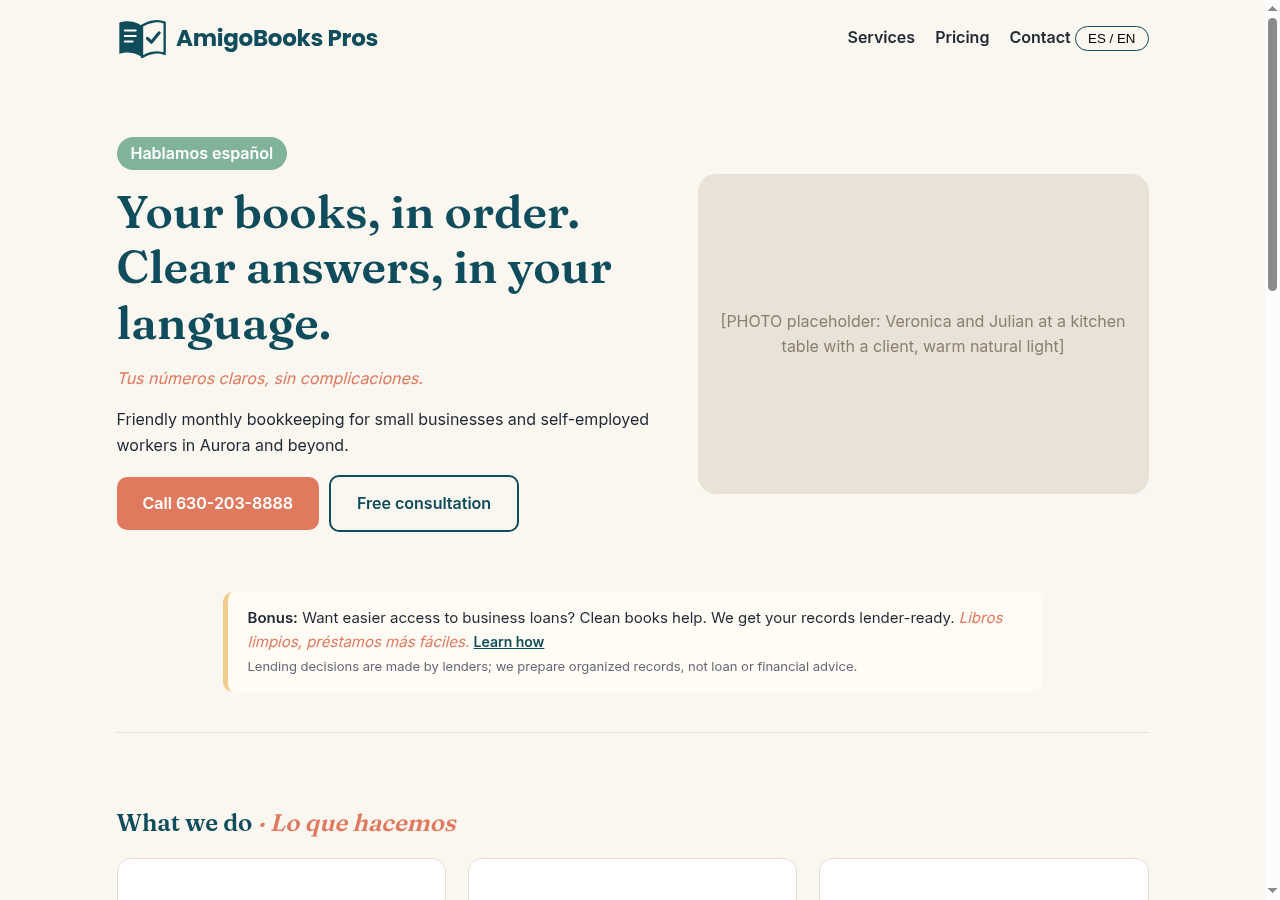
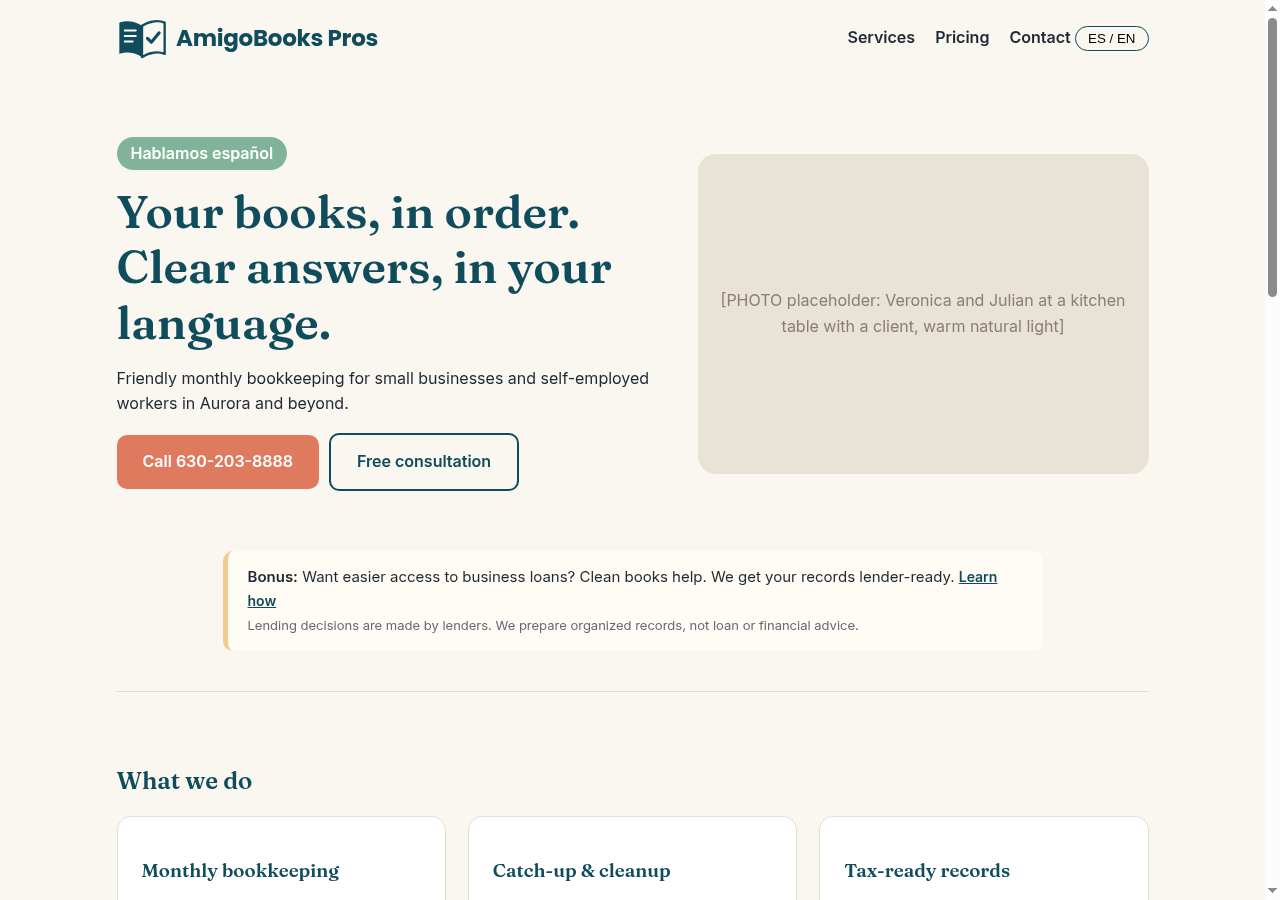
Single-language EN/ES toggle, full Spanish translations

diff --git a/index.html b/index.html
@@ -27,42 +27,43 @@ section{padding:56px 0;border-top:1px solid var(--line)}
 </style></head><body>
 <div class="wrap">
 <header><a class="logo" href="#" aria-label="AmigoBooks Pros"><svg viewBox="0 0 64 52" width="50" aria-hidden="true"><path d="M32 10 C22 3 10 3 3 6 V46 C10 43 22 43 32 50Z" fill="#0F4C5C"/><path d="M32 10 C42 3 54 3 61 6 V46 C54 43 42 43 32 50Z" fill="none" stroke="#0F4C5C" stroke-width="3" stroke-linejoin="round"/><path d="M10 16h14M10 23h14M10 30h10" stroke="#fff" stroke-width="2.6" stroke-linecap="round"/><path d="M39 26l5 5 10-12" stroke="#0F4C5C" stroke-width="4" fill="none" stroke-linecap="round" stroke-linejoin="round"/></svg><span>AmigoBooks Pros</span></a>
-<nav><a href="#services" data-en="Services" data-es="Servicios">Services</a><a href="#pricing" data-en="Pricing" data-es="Precios">Pricing</a><a href="#contact" data-en="Contact" data-es="Contacto">Contact</a> <button class="tog" onclick="t()">ES / EN</button></nav></header>
+<nav><a href="#services" data-en="Services" data-es="Servicios">Services</a><a href="#pricing" data-en="Pricing" data-es="Precios">Pricing</a><a href="#contact" data-en="Contact" data-es="Contacto">Contact</a> <button class="tog" onclick="t()" aria-label="Español / English">ES / EN</button></nav></header>
 
 <div class="hero"><div><span class="badge">Hablamos español</span>
 <h1 data-en="Your books, in order. Clear answers, in your language." data-es="Tus libros en orden. Respuestas claras, en tu idioma.">Your books, in order. Clear answers, in your language.</h1>
-<p class="es">Tus números claros, sin complicaciones.</p>
-<p data-en="Friendly monthly bookkeeping for small businesses and self-employed workers in Aurora and beyond." data-es="Contabilidad mensual amigable para pequeños negocios y trabajadores independientes en Aurora y más allá.">Friendly monthly bookkeeping for small businesses and self-employed workers in Aurora and beyond.</p>
-<a class="btn" href="tel:6302038888">Call 630-203-8888</a><a class="btn o" href="#contact" data-en="Free consultation" data-es="Consulta gratis">Free consultation</a></div>
-<div class="img">[PHOTO placeholder: Veronica and Julian at a kitchen table with a client, warm natural light]</div></div>
+<p data-en="Friendly monthly bookkeeping for small businesses and self-employed workers in Aurora and beyond." data-es="Contabilidad mensual amigable para pequeños negocios y trabajadores independientes en Aurora y sus alrededores.">Friendly monthly bookkeeping for small businesses and self-employed workers in Aurora and beyond.</p>
+<a class="btn" href="tel:6302038888" data-en="Call 630-203-8888" data-es="Llama al 630-203-8888">Call 630-203-8888</a><a class="btn o" href="#contact" data-en="Free consultation" data-es="Consulta gratis">Free consultation</a></div>
+<div class="img" data-en="[PHOTO placeholder: Veronica and Julian at a kitchen table with a client, warm natural light]" data-es="[Foto pendiente: Veronica y Julian en una mesa de cocina con un cliente, luz natural cálida]">[PHOTO placeholder: Veronica and Julian at a kitchen table with a client, warm natural light]</div></div>
 
-<div class="bonus"><b>Bonus:</b> Want easier access to business loans? Clean books help. We get your records lender-ready. <span class="es">Libros limpios, préstamos más fáciles.</span> <a href="#services">Learn how</a><br><small class="disc">Lending decisions are made by lenders; we prepare organized records, not loan or financial advice.</small></div>
+<div class="bonus" data-en="&lt;b&gt;Bonus:&lt;/b&gt; Want easier access to business loans? Clean books help. We get your records lender-ready. &lt;a href=&quot;#services&quot;&gt;Learn how&lt;/a&gt;&lt;br&gt;&lt;small class=&quot;disc&quot;&gt;Lending decisions are made by lenders. We prepare organized records, not loan or financial advice.&lt;/small&gt;" data-es="&lt;b&gt;Extra:&lt;/b&gt; ¿Quieres llegar mejor preparado a tu banco? Libros limpios, mejores conversaciones con tu banco. Dejamos tus registros listos para presentarlos. &lt;a href=&quot;#services&quot;&gt;Conoce cómo&lt;/a&gt;&lt;br&gt;&lt;small class=&quot;disc&quot;&gt;Las decisiones de crédito las toman los bancos. Nosotros preparamos registros organizados, no damos asesoría financiera ni de préstamos.&lt;/small&gt;"><b>Bonus:</b> Want easier access to business loans? Clean books help. We get your records lender-ready. <a href="#services">Learn how</a><br><small class="disc">Lending decisions are made by lenders. We prepare organized records, not loan or financial advice.</small></div>
 
-<section id="services"><h2 data-en="What we do" data-es="Lo que hacemos">What we do <span class="es">· Lo que hacemos</span></h2><div class="g3">
-<div class="card"><h3>Monthly bookkeeping</h3><p>Every transaction sorted, every account reconciled, a simple report each month. <span class="es">Cada mes, claro.</span></p></div>
-<div class="card"><h3>Catch-up &amp; cleanup</h3><p>Behind on your books? We bring past months up to date, sin regaños.</p></div>
-<div class="card"><h3>Tax-ready records</h3><p>Organized year-end package to hand to your tax preparer or CPA. <span class="es">Listo para impuestos.</span></p></div></div></section>
+<section id="services"><h2 data-en="What we do" data-es="Lo que hacemos">What we do</h2><div class="g3">
+<div class="card"><h3 data-en="Monthly bookkeeping" data-es="Contabilidad mensual">Monthly bookkeeping</h3><p data-en="Every transaction sorted, every account reconciled, a simple report each month." data-es="Cada movimiento clasificado, cada cuenta conciliada y un reporte sencillo cada mes.">Every transaction sorted, every account reconciled, a simple report each month.</p></div>
+<div class="card"><h3 data-en="Catch-up &amp;amp; cleanup" data-es="Puesta al día y limpieza">Catch-up &amp; cleanup</h3><p data-en="Behind on your books? We bring past months up to date, no judgment." data-es="¿Atrasado con tus libros? Ponemos al día los meses pendientes, sin regaños.">Behind on your books? We bring past months up to date, no judgment.</p></div>
+<div class="card"><h3 data-en="Tax-ready records" data-es="Registros listos para impuestos">Tax-ready records</h3><p data-en="Organized year-end package to hand to your tax preparer or CPA." data-es="Un paquete de fin de año organizado para entregar a tu preparador de impuestos o CPA.">Organized year-end package to hand to your tax preparer or CPA.</p></div></div></section>
 
-<section><h2>How it works <span class="es">· Así de fácil</span></h2><ol class="steps">
-<li><b>Llámanos / Call us.</b> A free 20-minute chat, in English or Spanish.</li>
-<li><b>Send your statements.</b> Photos, PDFs, even a shoebox of receipts.</li>
-<li><b>Get clear numbers monthly.</b> We explain them in plain words.</li></ol></section>
+<section><h2 data-en="How it works" data-es="Así de fácil">How it works</h2><ol class="steps">
+<li data-en="&lt;b&gt;Call us.&lt;/b&gt; A free 20-minute chat, in English or Spanish." data-es="&lt;b&gt;Llámanos.&lt;/b&gt; Una charla gratis de 20 minutos, en español o inglés."><b>Call us.</b> A free 20-minute chat, in English or Spanish.</li>
+<li data-en="&lt;b&gt;Send your statements.&lt;/b&gt; Photos, PDFs, even a shoebox of receipts." data-es="&lt;b&gt;Envía tus estados de cuenta.&lt;/b&gt; Fotos, PDFs, hasta una caja llena de recibos."><b>Send your statements.</b> Photos, PDFs, even a shoebox of receipts.</li>
+<li data-en="&lt;b&gt;Get clear numbers monthly.&lt;/b&gt; We explain them in plain words." data-es="&lt;b&gt;Recibe números claros cada mes.&lt;/b&gt; Te los explicamos con palabras sencillas."><b>Get clear numbers monthly.</b> We explain them in plain words.</li></ol></section>
 
-<section id="pricing"><h2>Simple flat pricing <span class="es">· Precios claros</span></h2><div class="g3">
-<div class="card"><h3>Básico</h3><div class="price"><span class="ph">$[PRICE]</span>/mo</div><p>Self-employed, 1 to 2 accounts.</p></div>
-<div class="card"><h3>Negocio</h3><div class="price"><span class="ph">$[PRICE]</span>/mo</div><p>Small business, up to <span class="ph">[N]</span> accounts.</p></div>
-<div class="card"><h3>Al día (catch-up)</h3><div class="price"><span class="ph">$[PRICE]</span></div><p>One-time, per month brought current.</p></div></div></section>
+<section id="pricing"><h2 data-en="Simple flat pricing" data-es="Precios fijos y claros">Simple flat pricing</h2><div class="g3">
+<div class="card"><h3 data-en="Basic" data-es="Básico">Basic</h3><div class="price"><span class="ph">$[PRICE]</span><span data-en="/mo" data-es="/mes">/mo</span></div><p data-en="Self-employed, 1 to 2 accounts." data-es="Independientes, 1 a 2 cuentas.">Self-employed, 1 to 2 accounts.</p></div>
+<div class="card"><h3 data-en="Business" data-es="Negocio">Business</h3><div class="price"><span class="ph">$[PRICE]</span><span data-en="/mo" data-es="/mes">/mo</span></div><p data-en="Small business, up to &lt;span class=&quot;ph&quot;&gt;[N]&lt;/span&gt; accounts." data-es="Pequeño negocio, hasta &lt;span class=&quot;ph&quot;&gt;[N]&lt;/span&gt; cuentas.">Small business, up to <span class="ph">[N]</span> accounts.</p></div>
+<div class="card"><h3 data-en="Catch-up" data-es="Al día">Catch-up</h3><div class="price"><span class="ph">$[PRICE]</span></div><p data-en="One-time, per month brought current." data-es="Pago único, por cada mes puesto al día.">One-time, per month brought current.</p></div></div></section>
 
-<section><div class="promise"><h2>Our promise <span style="color:#F2CC8F;font-style:italic">· Nuestra promesa</span></h2>
-<div><b>Flat price, no surprises.</b><br>Price agreed in writing before we start.</div>
-<div><b>Your data stays private.</b><br>Secure, confidential, always yours.</div>
-<div><b>Pay your way.</b><br>Card, Zelle, or cash at our office <span class="ph">[confirm]</span>.</div></div></section>
+<section><div class="promise"><h2 data-en="Our promise" data-es="Nuestra promesa">Our promise</h2>
+<div data-en="&lt;b&gt;Flat price, no surprises.&lt;/b&gt;&lt;br&gt;Price agreed in writing before we start." data-es="&lt;b&gt;Precio fijo, sin sorpresas.&lt;/b&gt;&lt;br&gt;Acordamos el precio por escrito antes de empezar."><b>Flat price, no surprises.</b><br>Price agreed in writing before we start.</div>
+<div data-en="&lt;b&gt;Your data stays private.&lt;/b&gt;&lt;br&gt;Secure, confidential, always yours." data-es="&lt;b&gt;Tu información es privada.&lt;/b&gt;&lt;br&gt;Segura, confidencial y siempre tuya."><b>Your data stays private.</b><br>Secure, confidential, always yours.</div>
+<div data-en="&lt;b&gt;Pay your way.&lt;/b&gt;&lt;br&gt;Card, Zelle, or cash at our office &lt;span class=&quot;ph&quot;&gt;[confirm]&lt;/span&gt;." data-es="&lt;b&gt;Paga como prefieras.&lt;/b&gt;&lt;br&gt;Tarjeta, Zelle o efectivo en nuestra oficina &lt;span class=&quot;ph&quot;&gt;[confirmar]&lt;/span&gt;."><b>Pay your way.</b><br>Card, Zelle, or cash at our office <span class="ph">[confirm]</span>.</div></div></section>
 
-<section><h2>Familias que confían en nosotros</h2><div class="g3">
-<div class="card"><span class="ph">[TESTIMONIAL placeholder]</span></div><div class="card"><span class="ph">[TESTIMONIAL placeholder]</span></div><div class="card"><span class="ph">[TESTIMONIAL placeholder]</span></div></div></section>
+<section><h2 data-en="What our clients say" data-es="Lo que dicen nuestros clientes">What our clients say</h2><div class="g3">
+<div class="card"><span class="ph" data-en="[TESTIMONIAL placeholder]" data-es="[Testimonio pendiente]">[TESTIMONIAL placeholder]</span></div><div class="card"><span class="ph" data-en="[TESTIMONIAL placeholder]" data-es="[Testimonio pendiente]">[TESTIMONIAL placeholder]</span></div><div class="card"><span class="ph" data-en="[TESTIMONIAL placeholder]" data-es="[Testimonio pendiente]">[TESTIMONIAL placeholder]</span></div></div></section>
 
-<section id="contact"><h2>Let's talk <span class="es">· Hablemos</span></h2>
-<p><b>Phone / WhatsApp:</b> 630-203-8888<br><b>Email:</b> <span class="ph">[EMAIL]@amigobookspros.com</span><br><b>Office:</b> <span class="ph">[ADDRESS], Aurora, IL</span><br><b>Hours:</b> <span class="ph">[HOURS]</span></p></section>
-<footer>© 2026 Amigo Books Pros · amigobookspros.com<p class="disc">Amigo Books Pros provides bookkeeping services only. We are not a CPA firm and do not provide audit, attest, or legal advice. / Ofrecemos servicios de contabilidad (bookkeeping) únicamente; no somos una firma de CPA.</p></footer></div>
-<script>let es=false;function t(){es=!es;document.documentElement.lang=es?'es':'en';document.querySelectorAll('[data-es]').forEach(e=>e.textContent=es?e.dataset.es:e.dataset.en)}</script>
+<section id="contact"><h2 data-en="Let&#x27;s talk" data-es="Hablemos">Let's talk</h2>
+<p data-en="&lt;b&gt;Phone / WhatsApp:&lt;/b&gt; 630-203-8888&lt;br&gt;&lt;b&gt;Email:&lt;/b&gt; &lt;span class=&quot;ph&quot;&gt;[EMAIL]@amigobookspros.com&lt;/span&gt;&lt;br&gt;&lt;b&gt;Office:&lt;/b&gt; &lt;span class=&quot;ph&quot;&gt;[ADDRESS], Aurora, IL&lt;/span&gt;&lt;br&gt;&lt;b&gt;Hours:&lt;/b&gt; &lt;span class=&quot;ph&quot;&gt;[HOURS]&lt;/span&gt;" data-es="&lt;b&gt;Teléfono / WhatsApp:&lt;/b&gt; 630-203-8888&lt;br&gt;&lt;b&gt;Correo:&lt;/b&gt; &lt;span class=&quot;ph&quot;&gt;[EMAIL]@amigobookspros.com&lt;/span&gt;&lt;br&gt;&lt;b&gt;Oficina:&lt;/b&gt; &lt;span class=&quot;ph&quot;&gt;[DIRECCIÓN], Aurora, IL&lt;/span&gt;&lt;br&gt;&lt;b&gt;Horario:&lt;/b&gt; &lt;span class=&quot;ph&quot;&gt;[HORARIO]&lt;/span&gt;"><b>Phone / WhatsApp:</b> 630-203-8888<br><b>Email:</b> <span class="ph">[EMAIL]@amigobookspros.com</span><br><b>Office:</b> <span class="ph">[ADDRESS], Aurora, IL</span><br><b>Hours:</b> <span class="ph">[HOURS]</span></p></section>
+<footer>© 2026 Amigo Books Pros · amigobookspros.com<p class="disc" data-en="Amigo Books Pros provides bookkeeping services only. We are not a CPA firm and do not provide audit, attest, or legal advice." data-es="Amigo Books Pros ofrece únicamente servicios de contabilidad (bookkeeping). No somos una firma de CPA y no ofrecemos servicios de auditoría, certificación ni asesoría legal.">Amigo Books Pros provides bookkeeping services only. We are not a CPA firm and do not provide audit, attest, or legal advice.</p></footer></div>
+<script>function setLang(l){document.documentElement.lang=l;document.querySelectorAll('[data-es]').forEach(e=>e.innerHTML=l=='es'?e.dataset.es:e.dataset.en);try{localStorage.setItem('abpLang',l)}catch(e){}}
+function t(){setLang(document.documentElement.lang=='es'?'en':'es')}
+var _l=null;try{_l=localStorage.getItem('abpLang')}catch(e){}if(new URLSearchParams(location.search).get('lang'))_l=new URLSearchParams(location.search).get('lang');setLang(_l=='es'?'es':'en');</script>
 </body></html>
